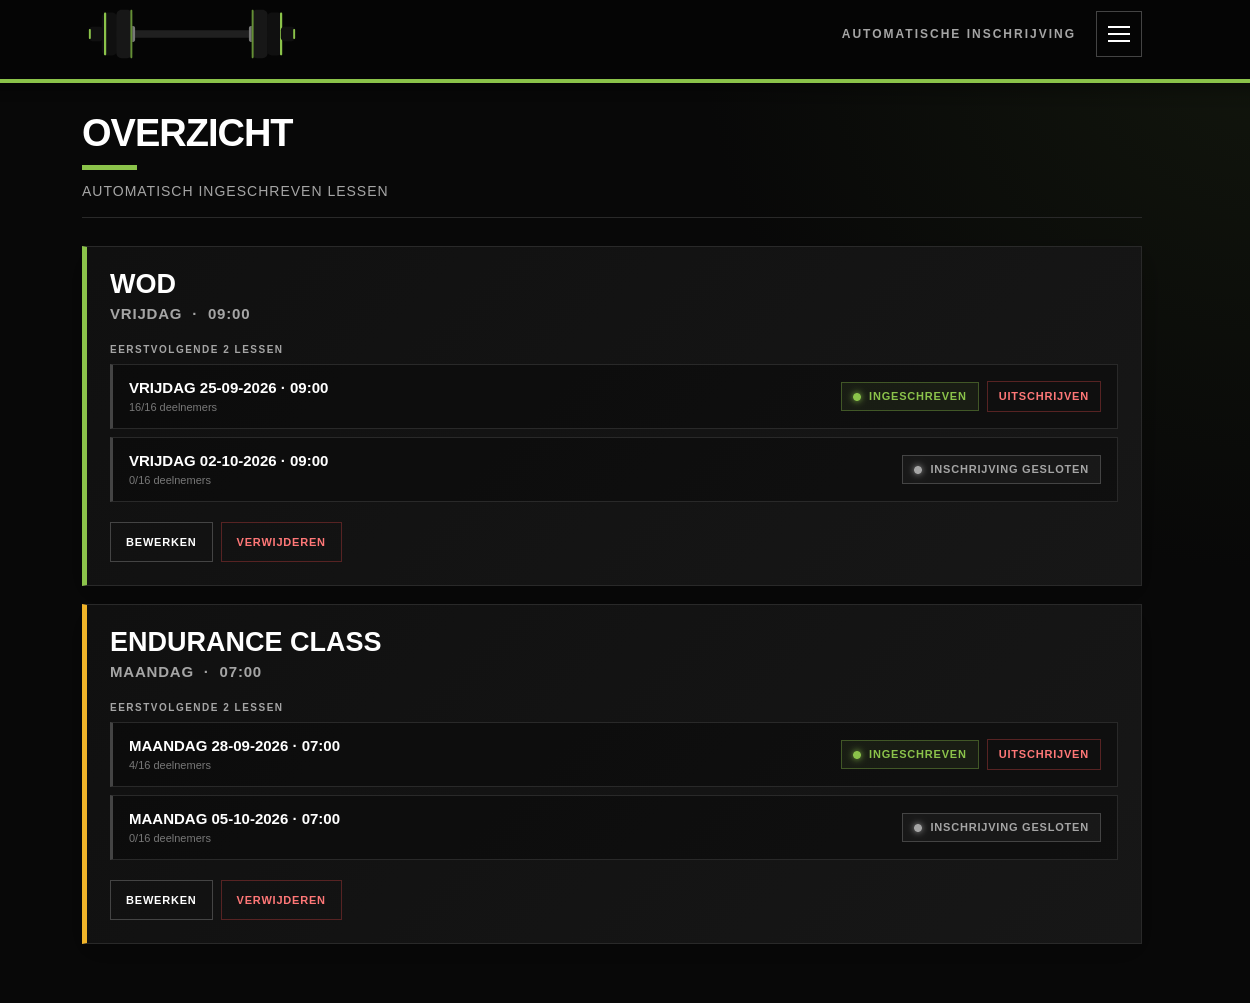
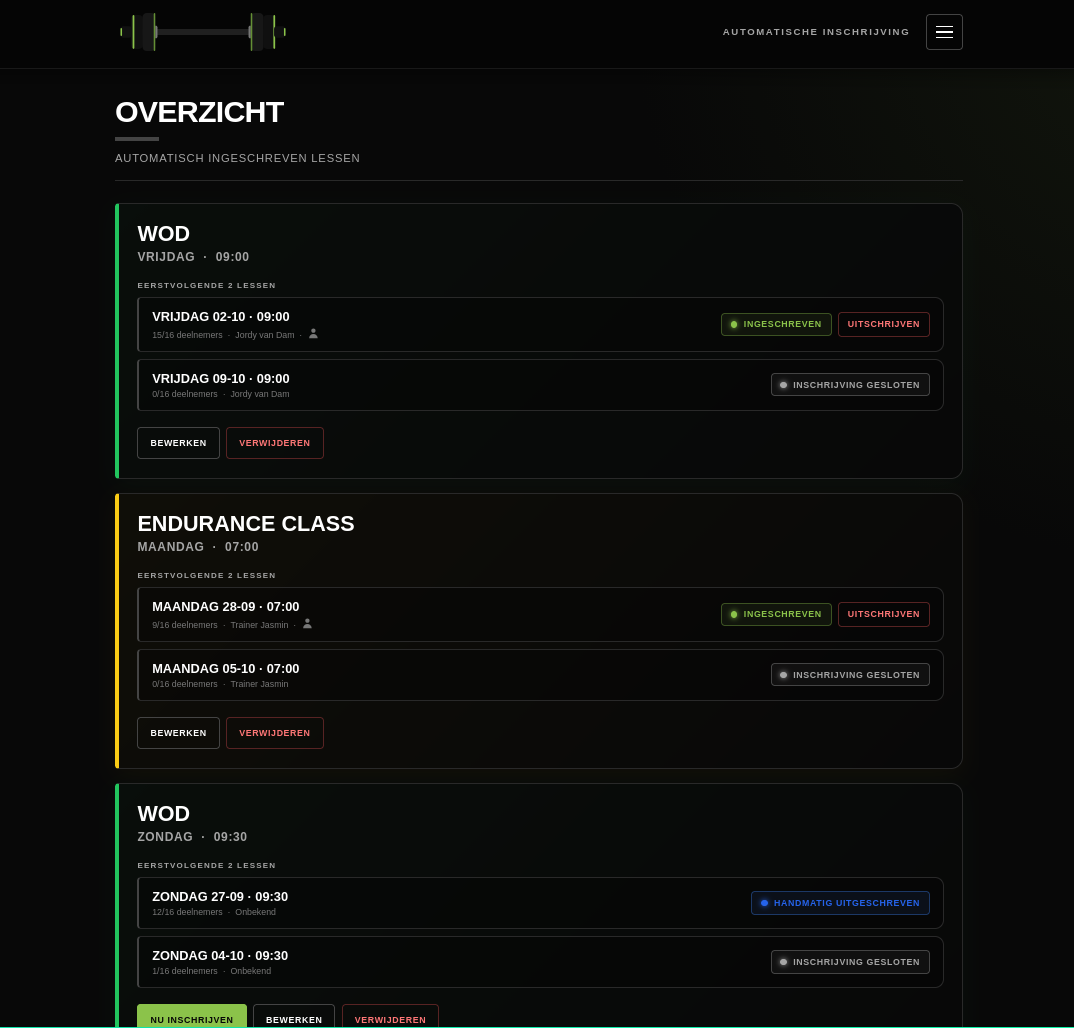
Add status, new screenshot

diff --git a/static/css/sportbit.css b/static/css/sportbit.css
@@ -678,6 +678,12 @@ select {
     border-color: rgba(239, 68, 68, .35);
 }
 
+.status-uitgeschreven {
+    color: #2563eb;
+    background: rgba(59, 130, 246, .08);
+    border-color: rgba(59, 130, 246, .35);
+}
+
 .status-onbekend {
     color: var(--gray-2);
     background: rgba(255, 255, 255, .03);

diff --git a/sportbit_webapp.py b/sportbit_webapp.py
@@ -700,6 +700,22 @@ def index():
             )
         )
 
+        doel_tijd = parse_tijd(item["tijd"])
+        doel_les = item["les"]
+
+        for les in item["lessen"]:
+            if is_handmatig_overgeslagen(
+                item["naam"],
+                les["datum"].date(),
+                doel_les,
+                doel_tijd,
+            ):
+                les["status"] = {
+                    "code": "uitgeschreven",
+                    "css": "uitgeschreven",
+                    "text": "Handmatig uitgeschreven",
+                }
+
         actuele_status = (
             get_status(
                 item["naam"]
